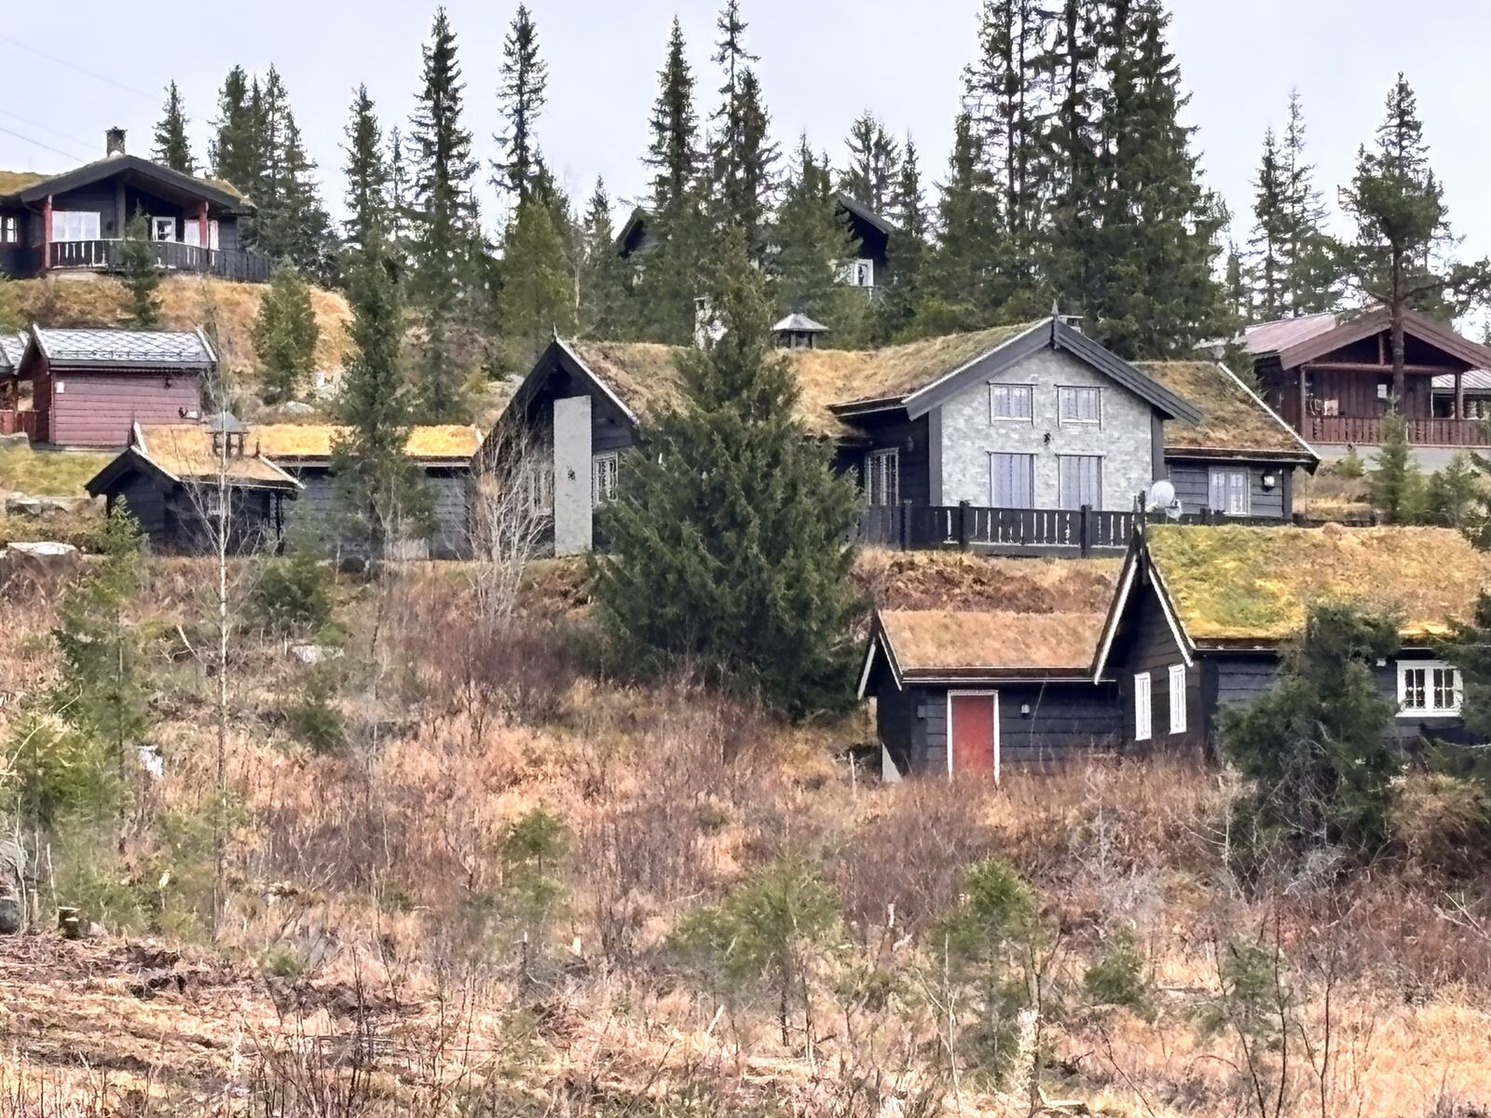
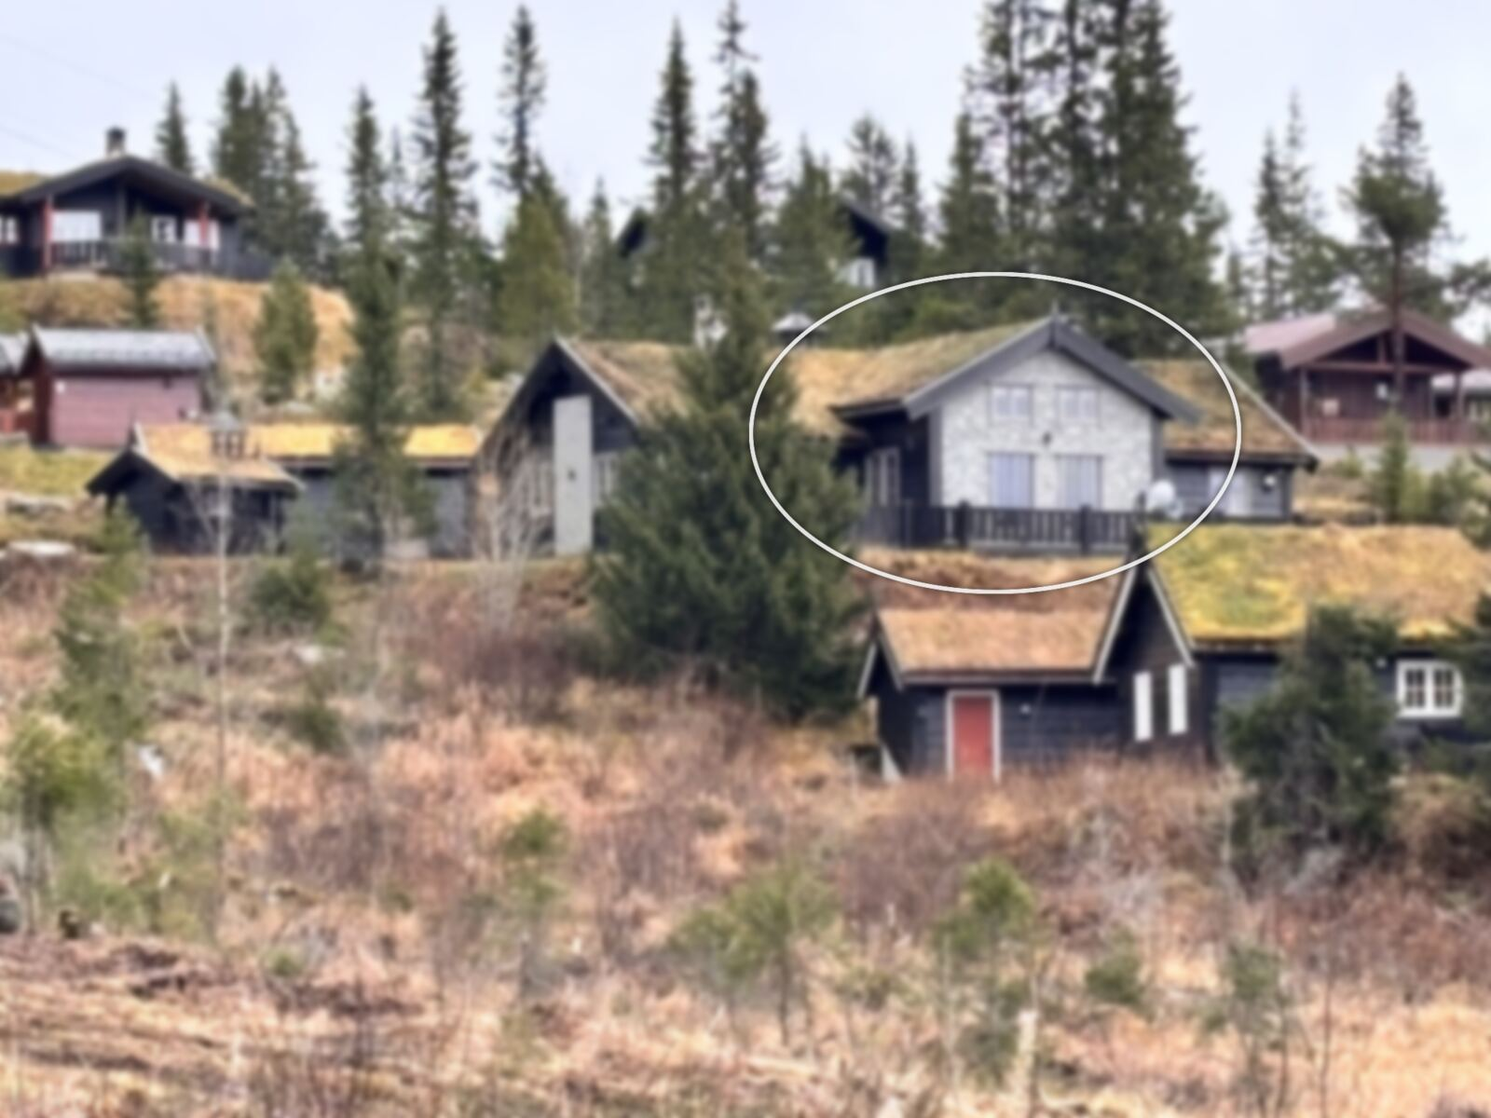
Diskret ring rundt hytta på bildet fra lia
Claude-Session: https://claude.ai/code/session_019Aed8hrihPRt83gkXfXjpb

Changed region(s): [[0.0, 0.0, 1.0, 1.0], [0.9375, 0.9867, 1.0, 1.0], [0.875, 0.6475, 0.9062, 0.6783]]

diff --git a/bilder.html b/bilder.html
@@ -115,13 +115,13 @@ const ROOT=/\/(en|da)\//.test(location.pathname)?"../":"";
 const T={
  no:{title:"Bilder – Hafjell Panorama",back:"Tilbake til forsiden",tabs:["Galleri","Plantegning","Kart"],close:"Lukk",prev:"Forrige bilde",next:"Neste bilde",
    note:"Plantegningen for hovedetasjen er eldre og viser to kjøkken. I dag har hytta ett kjøkken, to TV-stuer og stue med biljardbord.",
-   alt:{"tun-vinter":"Tunet en klar vinterdag","kjokken-oy":"Kjøkken med stor kjøkkenøy","kjokken-stue":"Kjøkken og sosial sone","salong":"Sittegruppe ved kjøkkenet","spisestue-peis":"Spisestue og TV-krok","spisestue":"Spisestue med peis","trapp-spisestue":"Trapp til hemsen og spisestue","biljard":"Stue med biljardbord","biljard-stue":"Biljardbord, peis og sofakrok","entre":"Entré","soverom-a":"Soverom","hems-sovesal":"Alkovesenger på hemsen","soverom-b":"Soverom","hems-soverom-lys":"Soverom på hemsen","hems-soverom-morkt":"Soverom på hemsen","ute-sommer":"Hytta om sensommeren","ute-host":"Hytta om høsten","tun-solnedgang":"Kveldssol over tunet","tun-forste-sno":"Første snøen","ute-vinter":"Hytta om vinteren","eksterior":"Hytta sett utenfra","bad":"Bad","flyfoto-host":"Flyfoto over hyttefeltet med hytta markert","hytta-lia":"Hytta sett nedenfra lia","plan-hovedetasje":"Plantegning hovedetasje","plan-hems":"Plantegning hems","loypekart":"Løypekart med hyttas plassering","flyfoto-sommer":"Flyfoto om sommeren","flyfoto-vinter":"Flyfoto om vinteren"}},
+   alt:{"tun-vinter":"Tunet en klar vinterdag","kjokken-oy":"Kjøkken med stor kjøkkenøy","kjokken-stue":"Kjøkken og sosial sone","salong":"Sittegruppe ved kjøkkenet","spisestue-peis":"Spisestue og TV-krok","spisestue":"Spisestue med peis","trapp-spisestue":"Trapp til hemsen og spisestue","biljard":"Stue med biljardbord","biljard-stue":"Biljardbord, peis og sofakrok","entre":"Entré","soverom-a":"Soverom","hems-sovesal":"Alkovesenger på hemsen","soverom-b":"Soverom","hems-soverom-lys":"Soverom på hemsen","hems-soverom-morkt":"Soverom på hemsen","ute-sommer":"Hytta om sensommeren","ute-host":"Hytta om høsten","tun-solnedgang":"Kveldssol over tunet","tun-forste-sno":"Første snøen","ute-vinter":"Hytta om vinteren","eksterior":"Hytta sett utenfra","bad":"Bad","flyfoto-host":"Flyfoto over hyttefeltet med hytta markert","hytta-lia":"Hytta sett nedenfra lia, markert med ring","plan-hovedetasje":"Plantegning hovedetasje","plan-hems":"Plantegning hems","loypekart":"Løypekart med hyttas plassering","flyfoto-sommer":"Flyfoto om sommeren","flyfoto-vinter":"Flyfoto om vinteren"}},
  en:{title:"Photos – Hafjell Panorama",back:"Back to the home page",tabs:["Gallery","Floor plan","Map"],close:"Close",prev:"Previous photo",next:"Next photo",
    note:"The main-floor plan is older and shows two kitchens. Today the cabin has one kitchen, two TV lounges and a lounge with a pool table.",
-   alt:{"tun-vinter":"A clear winter day","kjokken-oy":"Kitchen with large island","kjokken-stue":"Kitchen and lounge area","salong":"Seating area by the kitchen","spisestue-peis":"Dining room and TV corner","spisestue":"Dining room with wood stove","trapp-spisestue":"Stairs to the loft and dining room","biljard":"Lounge with pool table","biljard-stue":"Pool table, wood stove and sofa","entre":"Entrance hall","soverom-a":"Bedroom","hems-sovesal":"Alcove beds on the loft","soverom-b":"Bedroom","hems-soverom-lys":"Loft bedroom","hems-soverom-morkt":"Loft bedroom","ute-sommer":"The cabin in late summer","ute-host":"The cabin in autumn","tun-solnedgang":"Evening sun over the yard","tun-forste-sno":"First snow","ute-vinter":"The cabin in winter","eksterior":"The cabin from outside","bad":"Bathroom","flyfoto-host":"Aerial photo of the cabin area with the cabin circled","hytta-lia":"The cabin seen from the hillside below","plan-hovedetasje":"Floor plan, main floor","plan-hems":"Floor plan, loft","loypekart":"Trail map showing the cabin","flyfoto-sommer":"Aerial photo in summer","flyfoto-vinter":"Aerial photo in winter"}},
+   alt:{"tun-vinter":"A clear winter day","kjokken-oy":"Kitchen with large island","kjokken-stue":"Kitchen and lounge area","salong":"Seating area by the kitchen","spisestue-peis":"Dining room and TV corner","spisestue":"Dining room with wood stove","trapp-spisestue":"Stairs to the loft and dining room","biljard":"Lounge with pool table","biljard-stue":"Pool table, wood stove and sofa","entre":"Entrance hall","soverom-a":"Bedroom","hems-sovesal":"Alcove beds on the loft","soverom-b":"Bedroom","hems-soverom-lys":"Loft bedroom","hems-soverom-morkt":"Loft bedroom","ute-sommer":"The cabin in late summer","ute-host":"The cabin in autumn","tun-solnedgang":"Evening sun over the yard","tun-forste-sno":"First snow","ute-vinter":"The cabin in winter","eksterior":"The cabin from outside","bad":"Bathroom","flyfoto-host":"Aerial photo of the cabin area with the cabin circled","hytta-lia":"The cabin seen from the hillside below, circled","plan-hovedetasje":"Floor plan, main floor","plan-hems":"Floor plan, loft","loypekart":"Trail map showing the cabin","flyfoto-sommer":"Aerial photo in summer","flyfoto-vinter":"Aerial photo in winter"}},
  da:{title:"Billeder – Hafjell Panorama",back:"Tilbage til forsiden",tabs:["Galleri","Plantegning","Kort"],close:"Luk",prev:"Forrige billede",next:"Næste billede",
    note:"Plantegningen for stueetagen er ældre og viser to køkkener. I dag har hytten ét køkken, to TV-stuer og stue med billardbord.",
-   alt:{"tun-vinter":"En klar vinterdag","kjokken-oy":"Køkken med stor køkkenø","kjokken-stue":"Køkken og hyggekrog","salong":"Siddegruppe ved køkkenet","spisestue-peis":"Spisestue og TV-krog","spisestue":"Spisestue med pejs","trapp-spisestue":"Trappe til hemsen og spisestue","biljard":"Stue med billardbord","biljard-stue":"Billardbord, pejs og sofa","entre":"Entré","soverom-a":"Soveværelse","hems-sovesal":"Alkovesenge på hemsen","soverom-b":"Soveværelse","hems-soverom-lys":"Soveværelse på hemsen","hems-soverom-morkt":"Soveværelse på hemsen","ute-sommer":"Hytten i sensommeren","ute-host":"Hytten om efteråret","tun-solnedgang":"Aftensol over gårdspladsen","tun-forste-sno":"Den første sne","ute-vinter":"Hytten om vinteren","eksterior":"Hytten set udefra","bad":"Badeværelse","flyfoto-host":"Luftfoto over hytteområdet med hytten markeret","hytta-lia":"Hytten set nedefra skråningen","plan-hovedetasje":"Plantegning, stueetage","plan-hems":"Plantegning, hems","loypekart":"Løjpekort med hyttens placering","flyfoto-sommer":"Luftfoto om sommeren","flyfoto-vinter":"Luftfoto om vinteren"}}
+   alt:{"tun-vinter":"En klar vinterdag","kjokken-oy":"Køkken med stor køkkenø","kjokken-stue":"Køkken og hyggekrog","salong":"Siddegruppe ved køkkenet","spisestue-peis":"Spisestue og TV-krog","spisestue":"Spisestue med pejs","trapp-spisestue":"Trappe til hemsen og spisestue","biljard":"Stue med billardbord","biljard-stue":"Billardbord, pejs og sofa","entre":"Entré","soverom-a":"Soveværelse","hems-sovesal":"Alkovesenge på hemsen","soverom-b":"Soveværelse","hems-soverom-lys":"Soveværelse på hemsen","hems-soverom-morkt":"Soveværelse på hemsen","ute-sommer":"Hytten i sensommeren","ute-host":"Hytten om efteråret","tun-solnedgang":"Aftensol over gårdspladsen","tun-forste-sno":"Den første sne","ute-vinter":"Hytten om vinteren","eksterior":"Hytten set udefra","bad":"Badeværelse","flyfoto-host":"Luftfoto over hytteområdet med hytten markeret","hytta-lia":"Hytten set nedefra skråningen, markeret med ring","plan-hovedetasje":"Plantegning, stueetage","plan-hems":"Plantegning, hems","loypekart":"Løjpekort med hyttens placering","flyfoto-sommer":"Luftfoto om sommeren","flyfoto-vinter":"Luftfoto om vinteren"}}
 }[LANG];
 // [file, width, height]; a nested pair = two portrait photos side by side
 const W=[1600,1200], P=[1200,1600];

diff --git a/da/bilder.html b/da/bilder.html
@@ -115,13 +115,13 @@ const ROOT=/\/(en|da)\//.test(location.pathname)?"../":"";
 const T={
  no:{title:"Bilder – Hafjell Panorama",back:"Tilbake til forsiden",tabs:["Galleri","Plantegning","Kart"],close:"Lukk",prev:"Forrige bilde",next:"Neste bilde",
    note:"Plantegningen for hovedetasjen er eldre og viser to kjøkken. I dag har hytta ett kjøkken, to TV-stuer og stue med biljardbord.",
-   alt:{"tun-vinter":"Tunet en klar vinterdag","kjokken-oy":"Kjøkken med stor kjøkkenøy","kjokken-stue":"Kjøkken og sosial sone","salong":"Sittegruppe ved kjøkkenet","spisestue-peis":"Spisestue og TV-krok","spisestue":"Spisestue med peis","trapp-spisestue":"Trapp til hemsen og spisestue","biljard":"Stue med biljardbord","biljard-stue":"Biljardbord, peis og sofakrok","entre":"Entré","soverom-a":"Soverom","hems-sovesal":"Alkovesenger på hemsen","soverom-b":"Soverom","hems-soverom-lys":"Soverom på hemsen","hems-soverom-morkt":"Soverom på hemsen","ute-sommer":"Hytta om sensommeren","ute-host":"Hytta om høsten","tun-solnedgang":"Kveldssol over tunet","tun-forste-sno":"Første snøen","ute-vinter":"Hytta om vinteren","eksterior":"Hytta sett utenfra","bad":"Bad","flyfoto-host":"Flyfoto over hyttefeltet med hytta markert","hytta-lia":"Hytta sett nedenfra lia","plan-hovedetasje":"Plantegning hovedetasje","plan-hems":"Plantegning hems","loypekart":"Løypekart med hyttas plassering","flyfoto-sommer":"Flyfoto om sommeren","flyfoto-vinter":"Flyfoto om vinteren"}},
+   alt:{"tun-vinter":"Tunet en klar vinterdag","kjokken-oy":"Kjøkken med stor kjøkkenøy","kjokken-stue":"Kjøkken og sosial sone","salong":"Sittegruppe ved kjøkkenet","spisestue-peis":"Spisestue og TV-krok","spisestue":"Spisestue med peis","trapp-spisestue":"Trapp til hemsen og spisestue","biljard":"Stue med biljardbord","biljard-stue":"Biljardbord, peis og sofakrok","entre":"Entré","soverom-a":"Soverom","hems-sovesal":"Alkovesenger på hemsen","soverom-b":"Soverom","hems-soverom-lys":"Soverom på hemsen","hems-soverom-morkt":"Soverom på hemsen","ute-sommer":"Hytta om sensommeren","ute-host":"Hytta om høsten","tun-solnedgang":"Kveldssol over tunet","tun-forste-sno":"Første snøen","ute-vinter":"Hytta om vinteren","eksterior":"Hytta sett utenfra","bad":"Bad","flyfoto-host":"Flyfoto over hyttefeltet med hytta markert","hytta-lia":"Hytta sett nedenfra lia, markert med ring","plan-hovedetasje":"Plantegning hovedetasje","plan-hems":"Plantegning hems","loypekart":"Løypekart med hyttas plassering","flyfoto-sommer":"Flyfoto om sommeren","flyfoto-vinter":"Flyfoto om vinteren"}},
  en:{title:"Photos – Hafjell Panorama",back:"Back to the home page",tabs:["Gallery","Floor plan","Map"],close:"Close",prev:"Previous photo",next:"Next photo",
    note:"The main-floor plan is older and shows two kitchens. Today the cabin has one kitchen, two TV lounges and a lounge with a pool table.",
-   alt:{"tun-vinter":"A clear winter day","kjokken-oy":"Kitchen with large island","kjokken-stue":"Kitchen and lounge area","salong":"Seating area by the kitchen","spisestue-peis":"Dining room and TV corner","spisestue":"Dining room with wood stove","trapp-spisestue":"Stairs to the loft and dining room","biljard":"Lounge with pool table","biljard-stue":"Pool table, wood stove and sofa","entre":"Entrance hall","soverom-a":"Bedroom","hems-sovesal":"Alcove beds on the loft","soverom-b":"Bedroom","hems-soverom-lys":"Loft bedroom","hems-soverom-morkt":"Loft bedroom","ute-sommer":"The cabin in late summer","ute-host":"The cabin in autumn","tun-solnedgang":"Evening sun over the yard","tun-forste-sno":"First snow","ute-vinter":"The cabin in winter","eksterior":"The cabin from outside","bad":"Bathroom","flyfoto-host":"Aerial photo of the cabin area with the cabin circled","hytta-lia":"The cabin seen from the hillside below","plan-hovedetasje":"Floor plan, main floor","plan-hems":"Floor plan, loft","loypekart":"Trail map showing the cabin","flyfoto-sommer":"Aerial photo in summer","flyfoto-vinter":"Aerial photo in winter"}},
+   alt:{"tun-vinter":"A clear winter day","kjokken-oy":"Kitchen with large island","kjokken-stue":"Kitchen and lounge area","salong":"Seating area by the kitchen","spisestue-peis":"Dining room and TV corner","spisestue":"Dining room with wood stove","trapp-spisestue":"Stairs to the loft and dining room","biljard":"Lounge with pool table","biljard-stue":"Pool table, wood stove and sofa","entre":"Entrance hall","soverom-a":"Bedroom","hems-sovesal":"Alcove beds on the loft","soverom-b":"Bedroom","hems-soverom-lys":"Loft bedroom","hems-soverom-morkt":"Loft bedroom","ute-sommer":"The cabin in late summer","ute-host":"The cabin in autumn","tun-solnedgang":"Evening sun over the yard","tun-forste-sno":"First snow","ute-vinter":"The cabin in winter","eksterior":"The cabin from outside","bad":"Bathroom","flyfoto-host":"Aerial photo of the cabin area with the cabin circled","hytta-lia":"The cabin seen from the hillside below, circled","plan-hovedetasje":"Floor plan, main floor","plan-hems":"Floor plan, loft","loypekart":"Trail map showing the cabin","flyfoto-sommer":"Aerial photo in summer","flyfoto-vinter":"Aerial photo in winter"}},
  da:{title:"Billeder – Hafjell Panorama",back:"Tilbage til forsiden",tabs:["Galleri","Plantegning","Kort"],close:"Luk",prev:"Forrige billede",next:"Næste billede",
    note:"Plantegningen for stueetagen er ældre og viser to køkkener. I dag har hytten ét køkken, to TV-stuer og stue med billardbord.",
-   alt:{"tun-vinter":"En klar vinterdag","kjokken-oy":"Køkken med stor køkkenø","kjokken-stue":"Køkken og hyggekrog","salong":"Siddegruppe ved køkkenet","spisestue-peis":"Spisestue og TV-krog","spisestue":"Spisestue med pejs","trapp-spisestue":"Trappe til hemsen og spisestue","biljard":"Stue med billardbord","biljard-stue":"Billardbord, pejs og sofa","entre":"Entré","soverom-a":"Soveværelse","hems-sovesal":"Alkovesenge på hemsen","soverom-b":"Soveværelse","hems-soverom-lys":"Soveværelse på hemsen","hems-soverom-morkt":"Soveværelse på hemsen","ute-sommer":"Hytten i sensommeren","ute-host":"Hytten om efteråret","tun-solnedgang":"Aftensol over gårdspladsen","tun-forste-sno":"Den første sne","ute-vinter":"Hytten om vinteren","eksterior":"Hytten set udefra","bad":"Badeværelse","flyfoto-host":"Luftfoto over hytteområdet med hytten markeret","hytta-lia":"Hytten set nedefra skråningen","plan-hovedetasje":"Plantegning, stueetage","plan-hems":"Plantegning, hems","loypekart":"Løjpekort med hyttens placering","flyfoto-sommer":"Luftfoto om sommeren","flyfoto-vinter":"Luftfoto om vinteren"}}
+   alt:{"tun-vinter":"En klar vinterdag","kjokken-oy":"Køkken med stor køkkenø","kjokken-stue":"Køkken og hyggekrog","salong":"Siddegruppe ved køkkenet","spisestue-peis":"Spisestue og TV-krog","spisestue":"Spisestue med pejs","trapp-spisestue":"Trappe til hemsen og spisestue","biljard":"Stue med billardbord","biljard-stue":"Billardbord, pejs og sofa","entre":"Entré","soverom-a":"Soveværelse","hems-sovesal":"Alkovesenge på hemsen","soverom-b":"Soveværelse","hems-soverom-lys":"Soveværelse på hemsen","hems-soverom-morkt":"Soveværelse på hemsen","ute-sommer":"Hytten i sensommeren","ute-host":"Hytten om efteråret","tun-solnedgang":"Aftensol over gårdspladsen","tun-forste-sno":"Den første sne","ute-vinter":"Hytten om vinteren","eksterior":"Hytten set udefra","bad":"Badeværelse","flyfoto-host":"Luftfoto over hytteområdet med hytten markeret","hytta-lia":"Hytten set nedefra skråningen, markeret med ring","plan-hovedetasje":"Plantegning, stueetage","plan-hems":"Plantegning, hems","loypekart":"Løjpekort med hyttens placering","flyfoto-sommer":"Luftfoto om sommeren","flyfoto-vinter":"Luftfoto om vinteren"}}
 }[LANG];
 // [file, width, height]; a nested pair = two portrait photos side by side
 const W=[1600,1200], P=[1200,1600];

diff --git a/en/bilder.html b/en/bilder.html
@@ -115,13 +115,13 @@ const ROOT=/\/(en|da)\//.test(location.pathname)?"../":"";
 const T={
  no:{title:"Bilder – Hafjell Panorama",back:"Tilbake til forsiden",tabs:["Galleri","Plantegning","Kart"],close:"Lukk",prev:"Forrige bilde",next:"Neste bilde",
    note:"Plantegningen for hovedetasjen er eldre og viser to kjøkken. I dag har hytta ett kjøkken, to TV-stuer og stue med biljardbord.",
-   alt:{"tun-vinter":"Tunet en klar vinterdag","kjokken-oy":"Kjøkken med stor kjøkkenøy","kjokken-stue":"Kjøkken og sosial sone","salong":"Sittegruppe ved kjøkkenet","spisestue-peis":"Spisestue og TV-krok","spisestue":"Spisestue med peis","trapp-spisestue":"Trapp til hemsen og spisestue","biljard":"Stue med biljardbord","biljard-stue":"Biljardbord, peis og sofakrok","entre":"Entré","soverom-a":"Soverom","hems-sovesal":"Alkovesenger på hemsen","soverom-b":"Soverom","hems-soverom-lys":"Soverom på hemsen","hems-soverom-morkt":"Soverom på hemsen","ute-sommer":"Hytta om sensommeren","ute-host":"Hytta om høsten","tun-solnedgang":"Kveldssol over tunet","tun-forste-sno":"Første snøen","ute-vinter":"Hytta om vinteren","eksterior":"Hytta sett utenfra","bad":"Bad","flyfoto-host":"Flyfoto over hyttefeltet med hytta markert","hytta-lia":"Hytta sett nedenfra lia","plan-hovedetasje":"Plantegning hovedetasje","plan-hems":"Plantegning hems","loypekart":"Løypekart med hyttas plassering","flyfoto-sommer":"Flyfoto om sommeren","flyfoto-vinter":"Flyfoto om vinteren"}},
+   alt:{"tun-vinter":"Tunet en klar vinterdag","kjokken-oy":"Kjøkken med stor kjøkkenøy","kjokken-stue":"Kjøkken og sosial sone","salong":"Sittegruppe ved kjøkkenet","spisestue-peis":"Spisestue og TV-krok","spisestue":"Spisestue med peis","trapp-spisestue":"Trapp til hemsen og spisestue","biljard":"Stue med biljardbord","biljard-stue":"Biljardbord, peis og sofakrok","entre":"Entré","soverom-a":"Soverom","hems-sovesal":"Alkovesenger på hemsen","soverom-b":"Soverom","hems-soverom-lys":"Soverom på hemsen","hems-soverom-morkt":"Soverom på hemsen","ute-sommer":"Hytta om sensommeren","ute-host":"Hytta om høsten","tun-solnedgang":"Kveldssol over tunet","tun-forste-sno":"Første snøen","ute-vinter":"Hytta om vinteren","eksterior":"Hytta sett utenfra","bad":"Bad","flyfoto-host":"Flyfoto over hyttefeltet med hytta markert","hytta-lia":"Hytta sett nedenfra lia, markert med ring","plan-hovedetasje":"Plantegning hovedetasje","plan-hems":"Plantegning hems","loypekart":"Løypekart med hyttas plassering","flyfoto-sommer":"Flyfoto om sommeren","flyfoto-vinter":"Flyfoto om vinteren"}},
  en:{title:"Photos – Hafjell Panorama",back:"Back to the home page",tabs:["Gallery","Floor plan","Map"],close:"Close",prev:"Previous photo",next:"Next photo",
    note:"The main-floor plan is older and shows two kitchens. Today the cabin has one kitchen, two TV lounges and a lounge with a pool table.",
-   alt:{"tun-vinter":"A clear winter day","kjokken-oy":"Kitchen with large island","kjokken-stue":"Kitchen and lounge area","salong":"Seating area by the kitchen","spisestue-peis":"Dining room and TV corner","spisestue":"Dining room with wood stove","trapp-spisestue":"Stairs to the loft and dining room","biljard":"Lounge with pool table","biljard-stue":"Pool table, wood stove and sofa","entre":"Entrance hall","soverom-a":"Bedroom","hems-sovesal":"Alcove beds on the loft","soverom-b":"Bedroom","hems-soverom-lys":"Loft bedroom","hems-soverom-morkt":"Loft bedroom","ute-sommer":"The cabin in late summer","ute-host":"The cabin in autumn","tun-solnedgang":"Evening sun over the yard","tun-forste-sno":"First snow","ute-vinter":"The cabin in winter","eksterior":"The cabin from outside","bad":"Bathroom","flyfoto-host":"Aerial photo of the cabin area with the cabin circled","hytta-lia":"The cabin seen from the hillside below","plan-hovedetasje":"Floor plan, main floor","plan-hems":"Floor plan, loft","loypekart":"Trail map showing the cabin","flyfoto-sommer":"Aerial photo in summer","flyfoto-vinter":"Aerial photo in winter"}},
+   alt:{"tun-vinter":"A clear winter day","kjokken-oy":"Kitchen with large island","kjokken-stue":"Kitchen and lounge area","salong":"Seating area by the kitchen","spisestue-peis":"Dining room and TV corner","spisestue":"Dining room with wood stove","trapp-spisestue":"Stairs to the loft and dining room","biljard":"Lounge with pool table","biljard-stue":"Pool table, wood stove and sofa","entre":"Entrance hall","soverom-a":"Bedroom","hems-sovesal":"Alcove beds on the loft","soverom-b":"Bedroom","hems-soverom-lys":"Loft bedroom","hems-soverom-morkt":"Loft bedroom","ute-sommer":"The cabin in late summer","ute-host":"The cabin in autumn","tun-solnedgang":"Evening sun over the yard","tun-forste-sno":"First snow","ute-vinter":"The cabin in winter","eksterior":"The cabin from outside","bad":"Bathroom","flyfoto-host":"Aerial photo of the cabin area with the cabin circled","hytta-lia":"The cabin seen from the hillside below, circled","plan-hovedetasje":"Floor plan, main floor","plan-hems":"Floor plan, loft","loypekart":"Trail map showing the cabin","flyfoto-sommer":"Aerial photo in summer","flyfoto-vinter":"Aerial photo in winter"}},
  da:{title:"Billeder – Hafjell Panorama",back:"Tilbage til forsiden",tabs:["Galleri","Plantegning","Kort"],close:"Luk",prev:"Forrige billede",next:"Næste billede",
    note:"Plantegningen for stueetagen er ældre og viser to køkkener. I dag har hytten ét køkken, to TV-stuer og stue med billardbord.",
-   alt:{"tun-vinter":"En klar vinterdag","kjokken-oy":"Køkken med stor køkkenø","kjokken-stue":"Køkken og hyggekrog","salong":"Siddegruppe ved køkkenet","spisestue-peis":"Spisestue og TV-krog","spisestue":"Spisestue med pejs","trapp-spisestue":"Trappe til hemsen og spisestue","biljard":"Stue med billardbord","biljard-stue":"Billardbord, pejs og sofa","entre":"Entré","soverom-a":"Soveværelse","hems-sovesal":"Alkovesenge på hemsen","soverom-b":"Soveværelse","hems-soverom-lys":"Soveværelse på hemsen","hems-soverom-morkt":"Soveværelse på hemsen","ute-sommer":"Hytten i sensommeren","ute-host":"Hytten om efteråret","tun-solnedgang":"Aftensol over gårdspladsen","tun-forste-sno":"Den første sne","ute-vinter":"Hytten om vinteren","eksterior":"Hytten set udefra","bad":"Badeværelse","flyfoto-host":"Luftfoto over hytteområdet med hytten markeret","hytta-lia":"Hytten set nedefra skråningen","plan-hovedetasje":"Plantegning, stueetage","plan-hems":"Plantegning, hems","loypekart":"Løjpekort med hyttens placering","flyfoto-sommer":"Luftfoto om sommeren","flyfoto-vinter":"Luftfoto om vinteren"}}
+   alt:{"tun-vinter":"En klar vinterdag","kjokken-oy":"Køkken med stor køkkenø","kjokken-stue":"Køkken og hyggekrog","salong":"Siddegruppe ved køkkenet","spisestue-peis":"Spisestue og TV-krog","spisestue":"Spisestue med pejs","trapp-spisestue":"Trappe til hemsen og spisestue","biljard":"Stue med billardbord","biljard-stue":"Billardbord, pejs og sofa","entre":"Entré","soverom-a":"Soveværelse","hems-sovesal":"Alkovesenge på hemsen","soverom-b":"Soveværelse","hems-soverom-lys":"Soveværelse på hemsen","hems-soverom-morkt":"Soveværelse på hemsen","ute-sommer":"Hytten i sensommeren","ute-host":"Hytten om efteråret","tun-solnedgang":"Aftensol over gårdspladsen","tun-forste-sno":"Den første sne","ute-vinter":"Hytten om vinteren","eksterior":"Hytten set udefra","bad":"Badeværelse","flyfoto-host":"Luftfoto over hytteområdet med hytten markeret","hytta-lia":"Hytten set nedefra skråningen, markeret med ring","plan-hovedetasje":"Plantegning, stueetage","plan-hems":"Plantegning, hems","loypekart":"Løjpekort med hyttens placering","flyfoto-sommer":"Luftfoto om sommeren","flyfoto-vinter":"Luftfoto om vinteren"}}
 }[LANG];
 // [file, width, height]; a nested pair = two portrait photos side by side
 const W=[1600,1200], P=[1200,1600];
